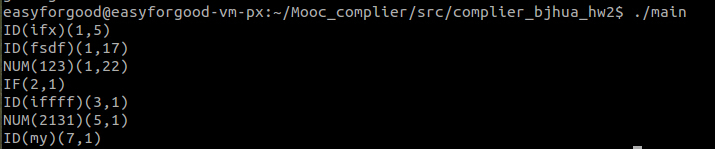
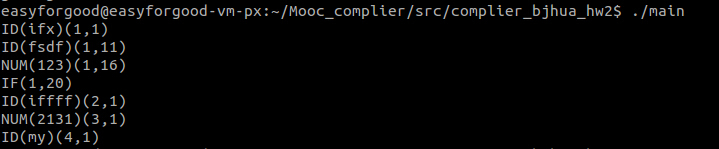
hw2

diff --git a/src/complier_bjhua_hw2/main.c b/src/complier_bjhua_hw2/main.c
@@ -27,7 +27,7 @@ int nowPos=0; //文件指针现在的位置 = ftell(fp)
 int state=0;
 //print IF
 void printIF(){
-    printf("IF(%d,%d)\n",line,linePos);
+    printf("IF(%d,%d)\n",line,linePos+startPos-nowPos);
     nowPos=ftell(fp);
     startPos=nowPos;
     state=0;
@@ -38,7 +38,8 @@ void printID(){
     fseek(fp,startPos-tempPos,SEEK_CUR);
     char *s=(char *)malloc(sizeof(char)*(nowPos-startPos));
     fread(s,sizeof(char),nowPos-startPos,fp);
-    printf("ID(%s)(%d,%d)\n",s,line,linePos);
+    printf("ID(%s)(%d,%d)\n",s,line,linePos+startPos-nowPos);
+    fgetc(fp);
     nowPos=ftell(fp);
     startPos=nowPos;
     state=0;
@@ -49,7 +50,8 @@ void printINT(){
     fseek(fp,startPos-tempPos,SEEK_CUR);
     char *s=(char *)malloc(sizeof(char)*(nowPos-startPos));
     fread(s,sizeof(char),nowPos-startPos,fp);     
-    printf("NUM(%s)(%d,%d)\n",s,line,linePos);
+    printf("NUM(%s)(%d,%d)\n",s,line,linePos+startPos-nowPos);
+    fgetc(fp);
     nowPos=ftell(fp);
     startPos=nowPos;
     state=0;
@@ -130,12 +132,13 @@ void main(int argc,char *argv[]) //命令行参数
     ch=fgetc(fp); 
     while(ch!=EOF) 
     {
+      
+        lexer(ch);
         linePos++;
         if (ch == '\n'){
             line++;
             linePos=1;
         }
-        lexer(ch);
         ch=fgetc(fp);
     } 
     lexer(' ');
